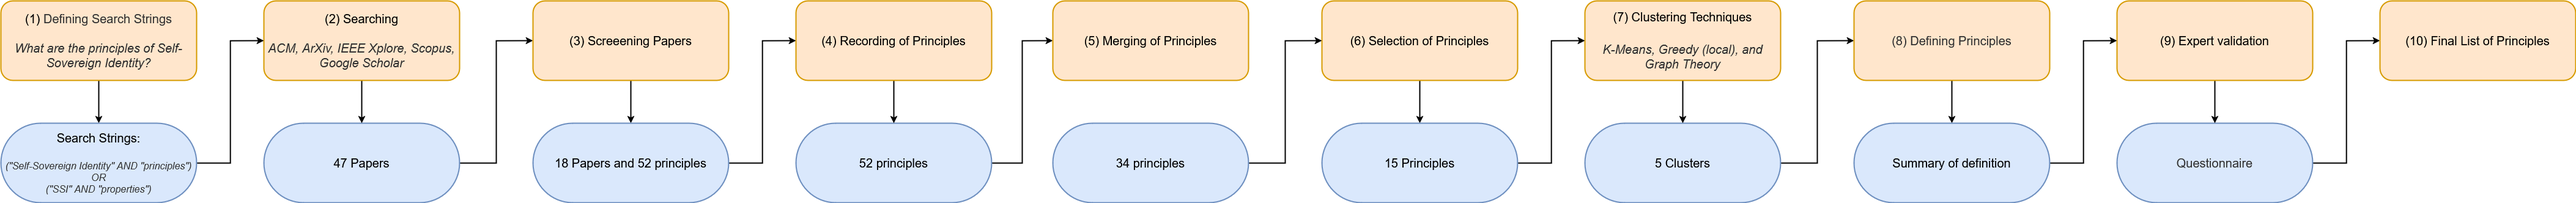
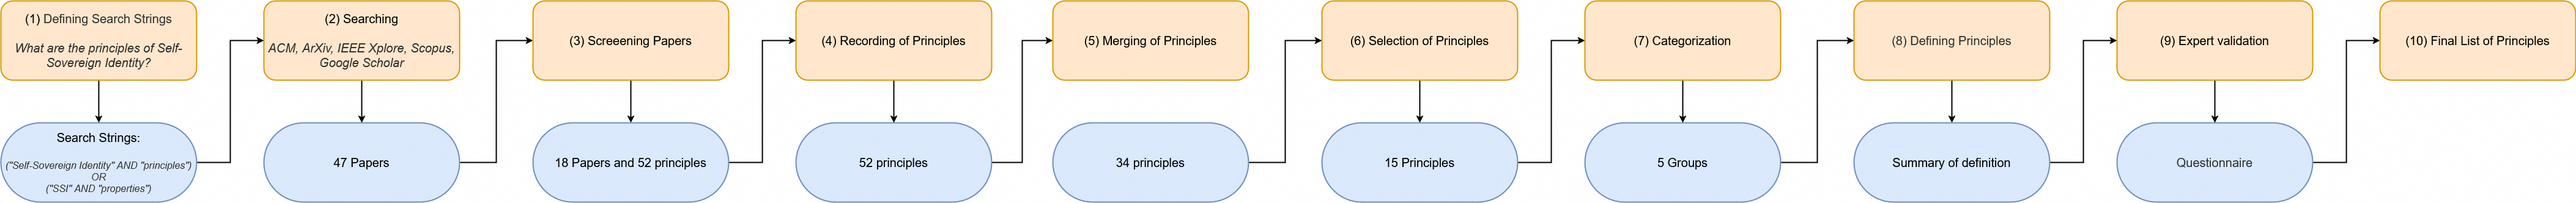
.

diff --git a/definition/program/clustering/graphs/BubbleChart.py b/definition/program/clustering/graphs/BubbleChart.py
@@ -4,21 +4,21 @@ import numpy as np
 
 # Recreating the data from the table (simplified)
 data = {
-    "Existence and representation": [4, 3, 1, 1, 0, 0, 0, 0, 0, 0, 0, 0, 0, 0, 0, 0, 0, 0],
-    "Ownership and control":        [5, 3, 0, 0, 1, 0, 0, 0, 0, 0, 0, 0, 0, 0, 0, 0, 0, 0],
-    "Consent":                      [5, 1, 1, 0, 0, 0, 0, 0, 0, 0, 1, 0, 0, 0, 0, 0, 0, 1],
-    "Access and availability":      [0, 3, 0, 1, 0, 3, 0, 2, 1, 0, 0, 0, 1, 0, 0, 0, 0, 0],
-    "Security and protection":      [0, 0, 1, 0, 0, 0, 0, 8, 0, 0, 0, 0, 0, 0, 0, 0, 1, 0],
-    "Persistence":                  [1, 1, 1, 0, 0, 0, 0, 5, 0, 0, 0, 0, 0, 0, 0, 1, 0, 0],
-    "Privacy and minimal disclosure":[2, 1, 1, 0, 1, 0, 0, 4, 0, 1, 0, 0, 0, 0, 0, 0, 0, 0],
-    "Portability":                  [0, 0, 1, 0, 0, 2, 1, 0, 0, 2, 1, 1, 0, 0, 0, 1, 0, 0],
-    "Transparency":                 [0, 0, 0, 0, 0, 3, 3, 1, 1, 0, 0, 0, 0, 0, 0, 1, 0, 0],
-    "Interoperability":             [0, 0, 0, 0, 0, 3, 1, 0, 1, 2, 1, 1, 0, 0, 0, 1, 1, 0],
-    "Cost":                         [0, 0, 0, 0, 0, 0, 3, 0, 0, 0, 0, 0, 1, 1, 0, 1, 0, 0],
-    "Standard":                     [0, 0, 0, 0, 0, 0, 3, 0, 0, 0, 0, 1, 0, 0, 1, 1, 0, 0],
-    "Decentralization and Autonomy":[1, 1, 0, 0, 0, 0, 0, 0, 0, 0, 1, 0, 1, 0, 0, 0, 0, 0],
-    "Verifiability and Authenticity":[0, 0, 0, 0, 0, 0, 0, 0, 2, 0, 0, 0, 0, 0, 0, 0, 0, 0],
-    "Usability and consistency":    [1, 0, 0, 1, 0, 0, 0, 0, 1, 0, 0, 0, 0, 0, 0, 0, 0, 0],
+        "Existence and representation": [4, 3, 1, 1, 0, 0, 0, 0, 0, 0, 0, 0, 0, 0, 0, 0, 0, 0],
+        "Ownership and control":        [5, 3, 0, 0, 1, 0, 0, 0, 0, 0, 0, 0, 0, 0, 0, 0, 0, 0],
+        "Consent":                      [5, 1, 1, 0, 0, 0, 0, 0, 0, 0, 1, 0, 0, 0, 0, 0, 0, 1],
+        "Access and availability":      [0, 3, 0, 1, 0, 3, 0, 2, 1, 0, 0, 0, 1, 0, 0, 0, 0, 0],
+        "Security and protection":      [0, 0, 1, 0, 0, 0, 0, 7, 0, 0, 0, 0, 0, 0, 0, 0, 1, 0],
+        "Persistence":                  [1, 1, 1, 0, 0, 0, 0, 5, 0, 0, 0, 0, 0, 0, 0, 1, 0, 0],
+        "Privacy and minimal disclosure":[2, 1, 1, 0, 1, 0, 0, 4, 0, 2, 0, 0, 0, 0, 0, 0, 0, 1],
+        "Portability":                  [0, 0, 1, 0, 0, 2, 1, 0, 0, 2, 1, 1, 0, 0, 0, 1, 0, 0],
+        "Transparency":                 [0, 0, 0, 0, 0, 3, 3, 1, 1, 0, 0, 0, 0, 0, 0, 1, 0, 0],
+        "Interoperability":             [0, 0, 0, 0, 0, 3, 1, 0, 1, 2, 1, 1, 0, 0, 0, 1, 1, 0],
+        "Cost":                         [0, 0, 0, 0, 0, 0, 3, 0, 0, 0, 0, 0, 1, 1, 0, 1, 0, 0],
+        "Standard":                     [0, 0, 0, 0, 0, 0, 3, 0, 0, 0, 0, 1, 0, 0, 1, 1, 0, 0],
+        "Decentralization and Autonomy":[1, 1, 0, 0, 0, 0, 0, 0, 0, 0, 1, 0, 1, 0, 0, 0, 0, 0],
+        "Verifiability and Authenticity":[0, 0, 0, 0, 0, 0, 0, 2, 0, 0, 0, 0, 0, 0, 0, 0, 0, 0],
+        "Usability and consistency":    [1, 0, 0, 1, 0, 0, 0, 0, 1, 0, 0, 0, 0, 0, 0, 0, 0, 0],
 }
 
 categories = [

diff --git a/definition/Definition.md b/definition/Definition.md
@@ -25,7 +25,7 @@ Eleven of the eighteen works considered in our contribution complement the list 
 
 ## 1.3 Methodology
 
-A coarse-grained overview of the research topic provides a comprehensive perspective of works on the SSI principles. An initial selection of 18 works from the literature review outlined 52 properties, which were then filtered throgh heuristics. In addition to the list of properties, our work introduces a unique categorization through clustering techniques. Finally, we proposed a questionnaire for experts to: I) Investigate the identified SSI properties and assess their importance. II) Identify the most and least critical properties, including non-repudiable ones. III) Validate the grouping of properties. IV) Refine the principles.
+A coarse-grained overview of the research topic provides a comprehensive perspective of works on the SSI principles. An initial selection of 18 works from the literature review outlined 52 properties, which were then filtered throgh heuristics. In addition to the list of properties, our work introduces a novel categorization of principles based on heuristics. Finally, we proposed a questionnaire for experts to: I) Investigate the identified SSI properties and assess their importance. II) Identify the most and least critical properties, including non-repudiable ones. III) Validate the grouping of properties. IV) Refine the principles.
 
 To gather relevant articles, we conducted a systematic review, which provides a structured overview of a research field by adapting the steps presented in [^lepore][^badzek][^cushman].
 
@@ -45,7 +45,7 @@ Keywords were refined and shuffled to avoid wildcards; for instance, Self-Sovere
 
 *6. Selection.* We have extracted the most relevant properties using a heuristic.
 
-*7. Clustering.* Clustering allows us to answer the quesiton: *can we cluster principles based on their labels to create categories?*. We used results to further analyze the state of play.
+*7. Categorization.* We propose a categorization of properties that illuminates the relationship between the principles and Self-Sovereign Identity.
 
 *8. Definition of principles.* We summarized the definitions of properties from authors while retaining their essence.
 
@@ -109,14 +109,13 @@ Some authors address a broad range of principles, demonstrating a comprehensive 
 ![Category frequency](/definition/images/recording_of_principles/Bubble.png)
 *Figure 5: The distribution of principles and authors.*
 
-### 1.3.4 Clustering
-
-A category is useful to "*illuminate a relationship between the subjects and objects of knowledge.*"[^mahalakshmi] In our case, the subjects and the objects are the principles and the SSI field respectively. Some of the studies discussed in [Related Works](#12-related-works) already include a form of categorization. Building on these past studies, our goal is to establish a mutually agreed-upon categorization of principles, and instrumental to this effort is the [Table 4](https://cristianlepore.github.io/Self-Sovereign-Identity/definition/tables/principles_classification/Principles_classification1), which outlines the framework for our categorization. In table 4 each cell represents a category.
+### 1.3.4 Categorization
+A category is useful to "*illuminate a relationship between the subjects and objects of knowledge.*"[^mahalakshmi] In our case, the subjects and the objects are the principles and the SSI field respectively. However, we do not have categorical attributes nor specific properties to label our principles. We do not have criteria definitions, rather we can rely only on past studies that categorize the SSI principles as reported in the [Related Works](#12-related-works). On top of this, our goal is analyze past studies to see if objects exhibit any similarity between themselves and dissimilar to objects of other authors.[^rai] Instrumental for this job is the creation of [Table 4](https://cristianlepore.github.io/Self-Sovereign-Identity/definition/tables/principles_classification/Principles_classification1), which outlines the categories from our literature review. From here, we aim to find similarities between bjects.
 
 [Click to view the table 4 with 15 properties only.](https://cristianlepore.github.io/Self-Sovereign-Identity/definition/tables/principles_classification/Principles_classification1) *The principles and their categories.*
 [Table 4 with the complete list of 34 properties.](https://cristianlepore.github.io/Self-Sovereign-Identity/definition/tables/principles_classification/Principles_classification2) *The principles and their categories.*
 
-However, the Table 4 provides a scattered analysis of categorizations. Hence, before proceding with the clustering, we aim to gather insights into some of the information conveyed by the table, by addressing the following questions:
+However, the knowledge provided in Table 4 is only scattered and, before proceeding, we aim to analyze data by addressing the following questions:
 
 1. What are the most frequently discussed categories in the context of Self-Sovereign Identity?
 2. How do principles and articles align across different categories?
@@ -156,9 +155,10 @@ The chart also reveals additional insights into the number of categories per aut
 ![Category frequency](/definition/images/clusters/Distribution_authors_contribution.png)
 *Figure 8: Distribution of principles across categories by authors.*
 
-#### Clustering techniques
+The study of literature through questions highlights how scattered the domain of interest is and how loosely connected the principles and categorizations proposed by different authors are. In the absence of predefined features for categorization, we can leverage a clustering technique to identify groups and assign names to them based on heuristics.[^rai] Clustering helps uncover similarities between objects that initially appear dissimilar. To achieve this, we treat our data as a cluster—a set of points where each point is closer (or more similar) to one or more other points within the cluster than to any point outside of it.[^rai]
 
-At this stage, we aim to use information from authors and categories to cluster principles. To achieve this, we first showcase the alignment of principles and categories through the lens of author mentions. Then, we have applied three of the clustering techniques described in [^bishop][^park][^saxena][^rai]: Greedy Clustering,[^park] K-Means,[^saxena][^rai] and Graph Theory.[^saxena] We selected Greedy Clustering for its simplicity, K-Means for its ability to analyze intra-cluster distances, and Graph Theory for its suitability in representing clusters as graphs. However, they all have limitations that we will discuss in the different subsections; for example, the Graph Theory has limitations in handling outliers and detecting overlapping clusters.[^saxena] We finally compared results from the three different techniques to decide our final categories.
+#### Clustering techniques
+We aim to divide data into groups of similar objects by using information from authors and their categories. To achieve this, we first showcase the alignment of principles and categories through the lens of author mentions. Then, we have applied three of the clustering techniques described in [^bishop][^park][^saxena][^rai]: Greedy Clustering,[^park] K-Means,[^saxena][^rai] and Graph Theory.[^saxena] We selected Greedy Clustering for its simplicity, K-Means for its ability to analyze intra-cluster distances, and Graph Theory for its suitability in representing clusters as graphs. However, they all have limitations that we will discuss in the different subsections; for example, the Graph Theory has limitations in handling outliers and detecting overlapping clusters.[^saxena] We finally compared results from the three different techniques to decide our final categories.
 
 ##### A) Greedy clustering
 The greedy local approach makes decisions based on the best immediate (local) choice at each step, aiming to achieve a globally optimal solution.[^bishop] it is simple and ease of use, so we manually applied this technique to the heatmap shown in Figure 9. This heatmap illustrates the alignment of principles and categories through the lens of author mentions. It is visualized as a matrix, where the intensity of blue represents the frequency of author mentions. Principles are listed along the rows, while categories span the columns. The values in each cell indicate the number of authors supporting a specific combination. A gradient from white to dark blue represents the range of values, from 0 (no mentions) to 7 (highest mentions).
@@ -180,16 +180,7 @@ Despite being efficient and effective for certain problems, the greedy local app
 *Figure 9: Author mentions across principles and categories.*
 
 ##### B) K-Means
-
-![Clustering](/definition/images/clusters/Bubble.png)
-*Figure 6: *
-
-![Clustering](/definition/images/clusters/Graph_theory.png)
-*Figure 7: *
-
-To better illustrate the relationship between properties and key aspects of SSI, we created five groups of principles based on past definitions.
-
-1) K-Means aims to minimize intra-cluster distances. Graphically, it initializes a centroid at a random point on the chart and iteratively adjusts to find the nearest points. The number of centroids, K, significantly affects the result. We automate the process through the following steps: [Python Program](https://cristianlepore.github.io/Self-Sovereign-Identity/definition/program/Compute_K-Means.py) whose main steps are as follows:
+K-Means aims to minimize intra-cluster distances. Graphically, it initializes a centroid at a random point on the chart and iteratively adjusts to find the nearest points. The number of centroids, K, significantly affects the result. We automate the process through the following steps: [Python Program](https://cristianlepore.github.io/Self-Sovereign-Identity/definition/program/Compute_K-Means.py) whose main steps are as follows:
 
 RIPORTARE I PROGRAMMI
 
@@ -203,7 +194,13 @@ For reproducibility of results, we used the same seed to calculate the starting 
 We tested several combinations of parameter K (number of clusters) and eventually settled on `K=5`. This value of K ensures a fair number of elements in each cluster.
 - Write output and save results. `print(f"Clustering completed! Results saved in: {output_file}")`
 
-3) Graph theory represents points as vertices connected by edges. The edges are weighted based on the number of instances of articles from authors. For example, if three articles use the category 'Controllability,' the corresponding edge will have a weight of three. While this method is visually appealing and easy to understand, it does not scale well to hundreds of nodes.
+![Clustering](/definition/images/clusters/Bubble.png)
+*Figure 6: *
+
+![Clustering](/definition/images/clusters/Graph_theory.png)
+*Figure 7: *
+
+1) Graph theory represents points as vertices connected by edges. The edges are weighted based on the number of instances of articles from authors. For example, if three articles use the category 'Controllability,' the corresponding edge will have a weight of three. While this method is visually appealing and easy to understand, it does not scale well to hundreds of nodes.
 
 Figure 3 shows the final result of our grouping process. The group's name is derived from the literature.
 
